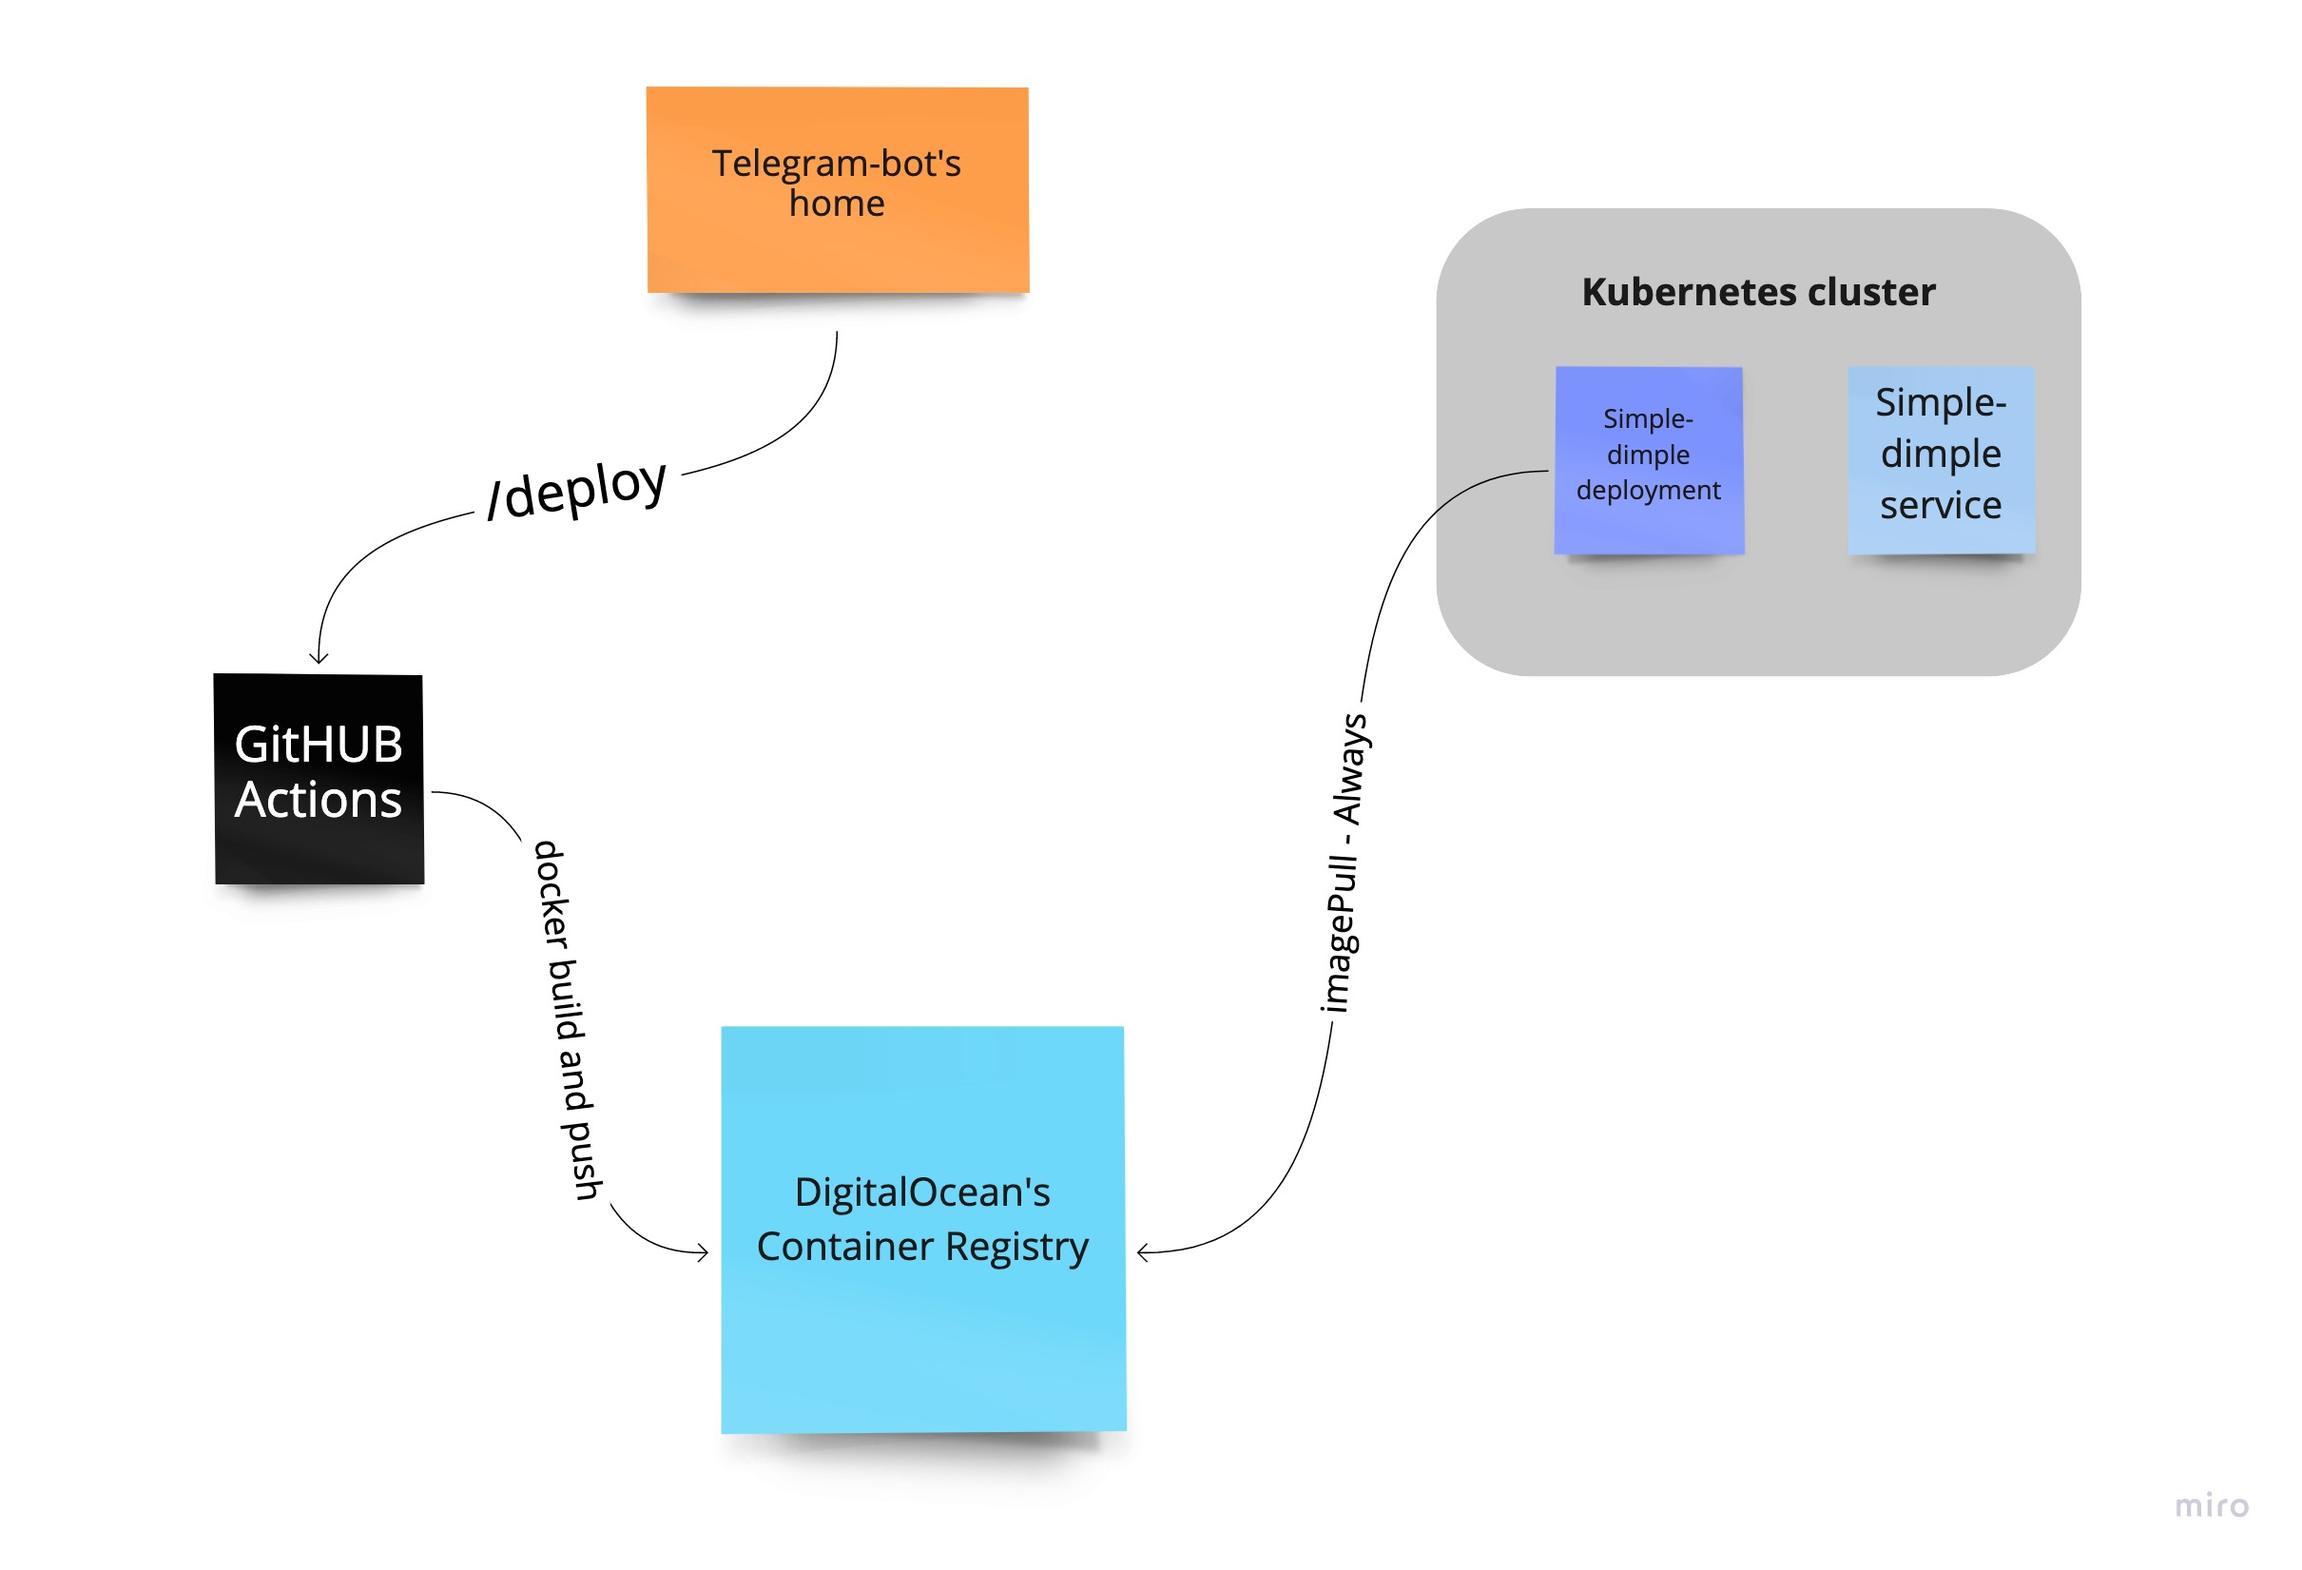
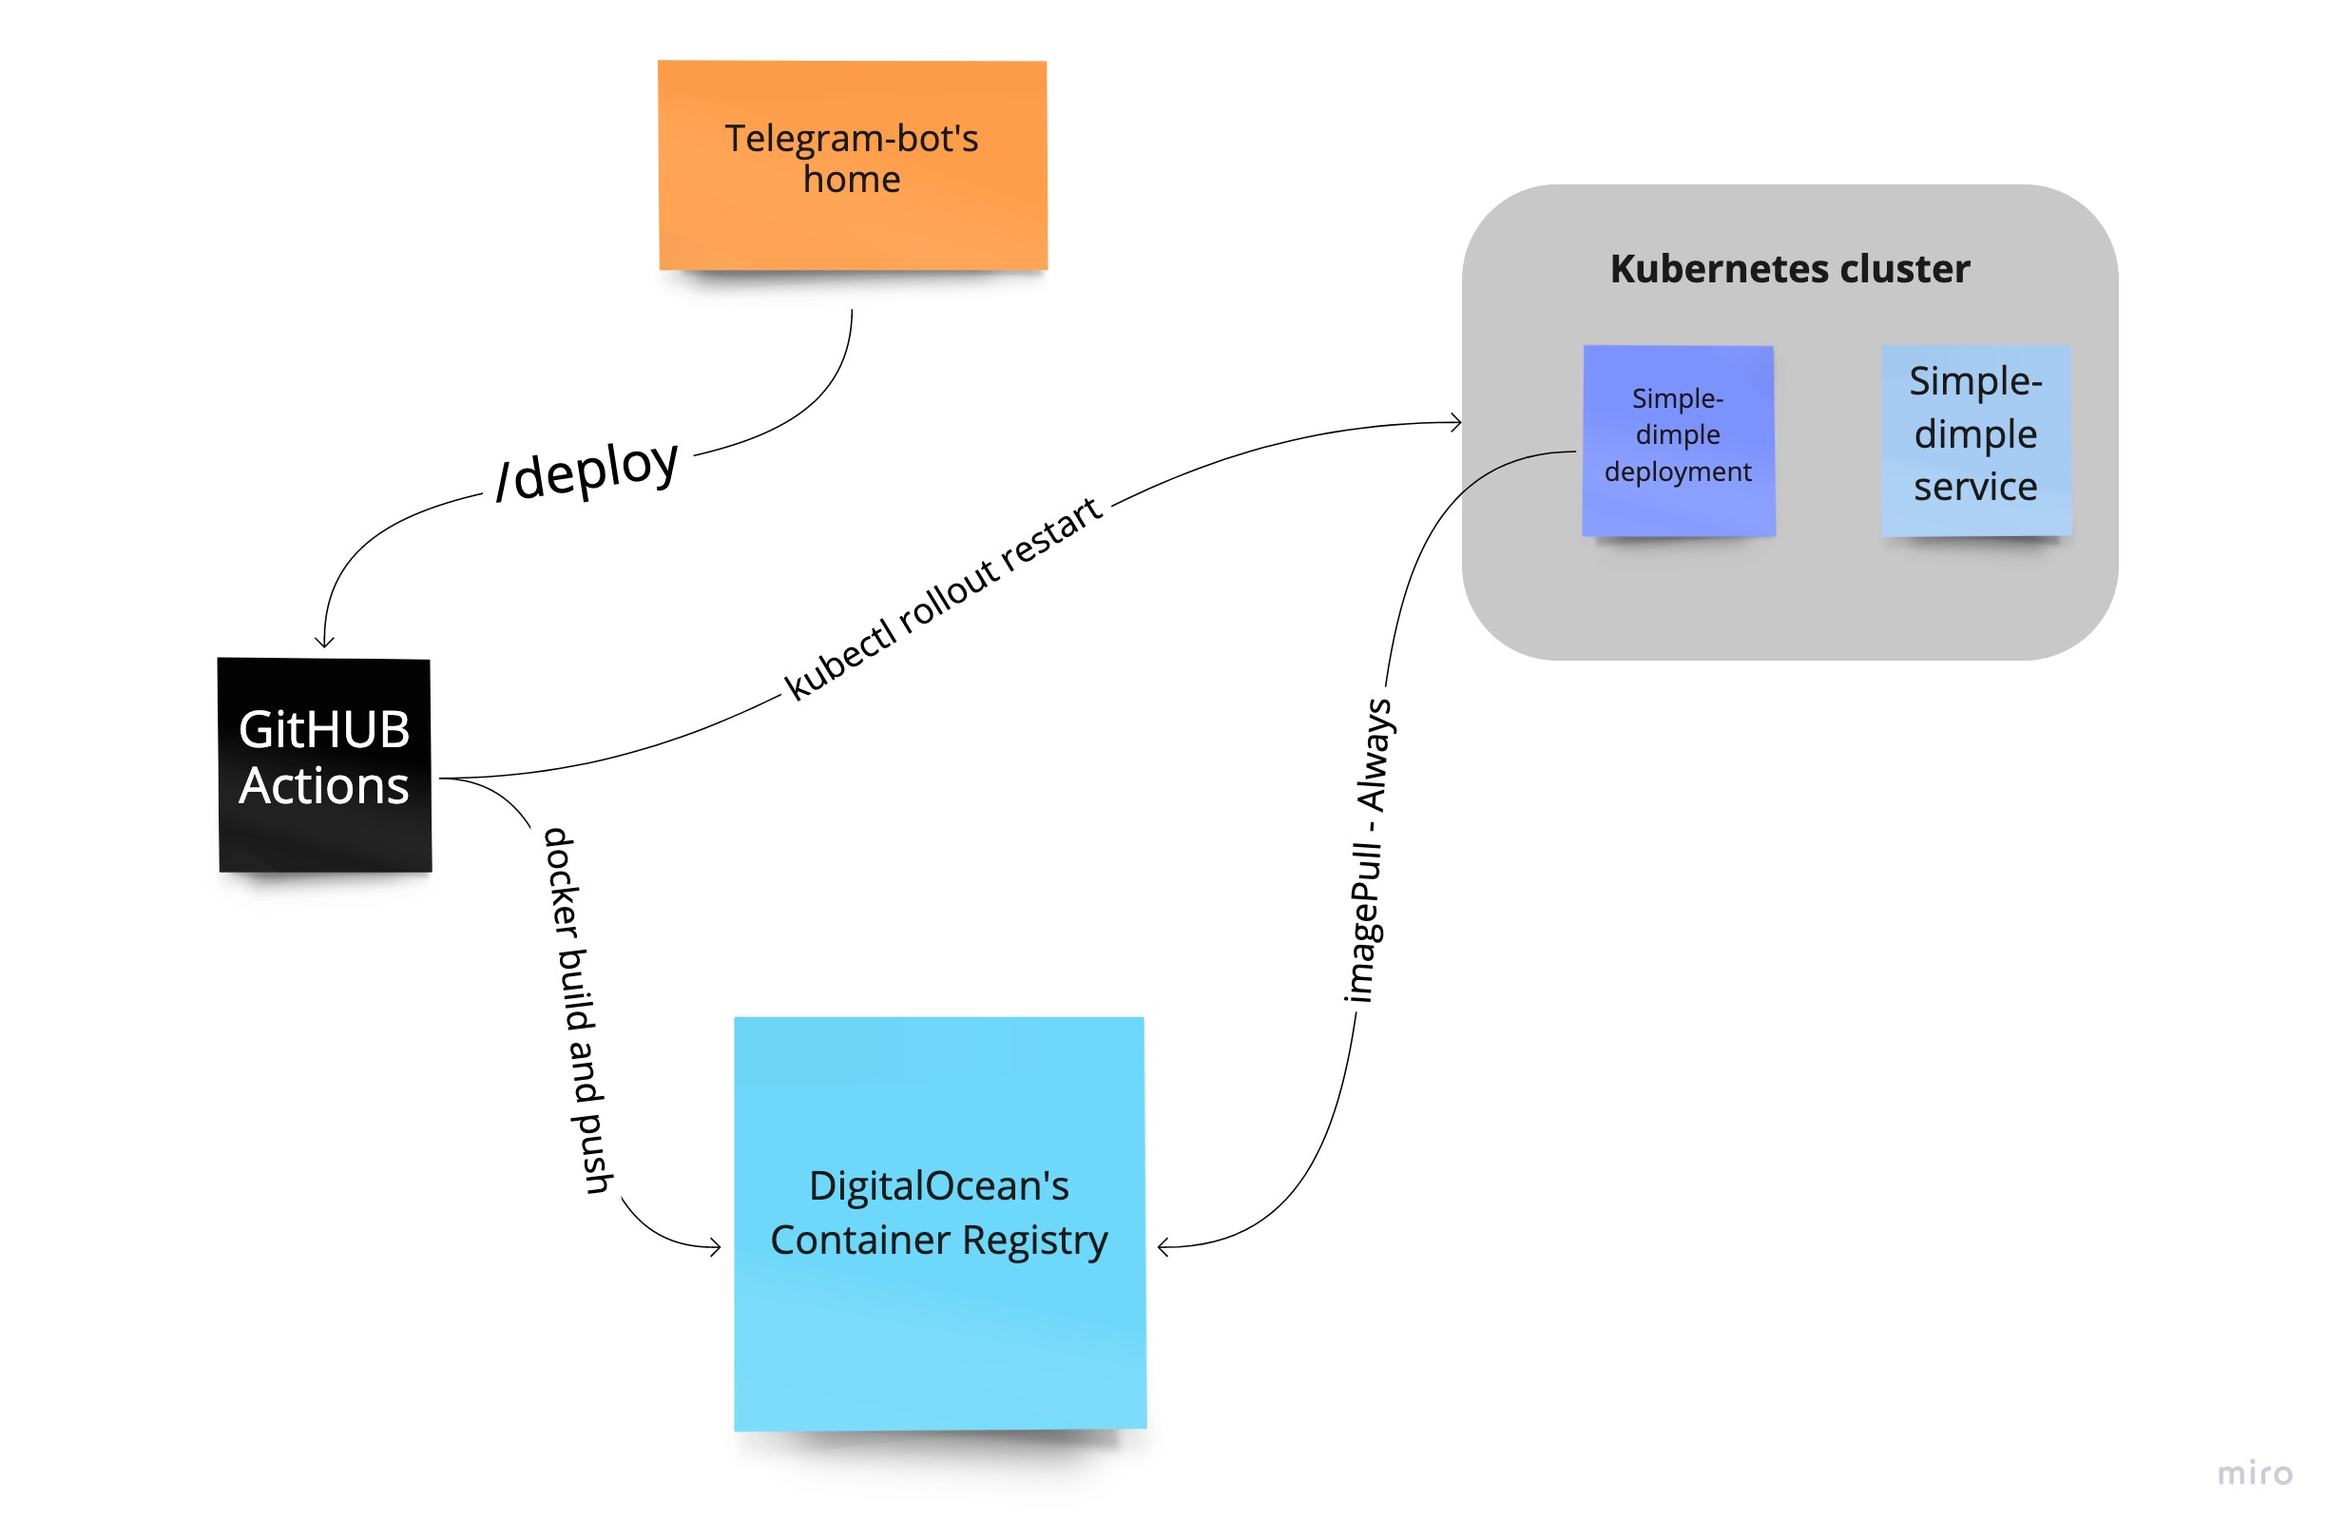
small additions to bot(getting status) and README

diff --git a/bot/bot.py b/bot/bot.py
@@ -1,21 +1,43 @@
 import telebot
 import requests
-import os
+import time
 
 GITHUB_TOKEN = os.environ.get("GITHUB_TOKEN")
 API_KEY = os.environ.get("API_KEY")
-
+GITHUB_URL = "https://api.github.com/repos/tch-rom/telegram-chatops/actions/runs"
 REPO = "tch-rom/telegram-chatops"
 
 payload = {"event_type": "CD triggered via Telegram"}
-headers = {'Accept': 'application/vnd.github.everest-preview+json', 'Authorization': f'token {GITHUB_TOKEN}'}
-
+headers = {'Content-Type': 'application/json', 'Accept': 'application/vnd.github.everest-preview+json', 'Authorization': f'token {GITHUB_TOKEN}'}
 bot = telebot.TeleBot(API_KEY)
 
 @bot.message_handler(commands=['deploy'])
 
 def deploy(message):
-    bot.send_message(message.chat.id, "Hey! Your deployment must start now.. Please check the link: https://github.com/tch-rom/telegram-chatops/actions")
+    bot.send_message(message.chat.id, "Hey! Your deployment must start now. Please check the link: https://github.com/tch-rom/telegram-chatops/actions")
     requests.post(f"https://api.github.com/repos/{REPO}/dispatches", json=payload, headers=headers)
+    time.sleep(15)
+    while True:
+        if get_status(headers, GITHUB_URL) == "success" or get_status(headers, GITHUB_URL) == "failure":
+            break
+        else:
+            pass
+    bot.send_message(message.chat.id, get_status(headers, GITHUB_URL))
+
+def get_status(headers, url):
+
+    resp = requests.get(url, headers=headers)
+
+    run_numbers = []
+    for workflow in resp.json()['workflow_runs']:
+        run_numbers.append(workflow['run_number'])
+
+    max_run_num = max(run_numbers)
+
+    for workflow in resp.json()['workflow_runs']:
+        if workflow['run_number'] == max_run_num:
+            return workflow['conclusion']
+        else:
+            continue
 
 bot.polling()

diff --git a/README.md b/README.md
@@ -7,10 +7,12 @@ Codebase of the app, its infra, and chat-bot which triggers the deployment
 
 ![my-infra](images/infra.jpg)
 
-So, it is very simple. After making ``/deploy`` command - telegram-bot sends POST request to the GitHUB actions
+Simple-dimple app is just a small web-server which gives you the time when application was deployed.
+So, it is very simple. My bot is sitting as a docker container on the DigitalOcean. 
+After making ``/deploy`` command - telegram-bot sends POST request to the GitHUB actions
 which runs new workflow. It builds and pushes new image to the container registry.
 
-After new image appears in the Container registry the rollout happens.
+After new image appears in the Container registry the rollout on the K8s happens.
 
 # Technologies - reasons:
 
